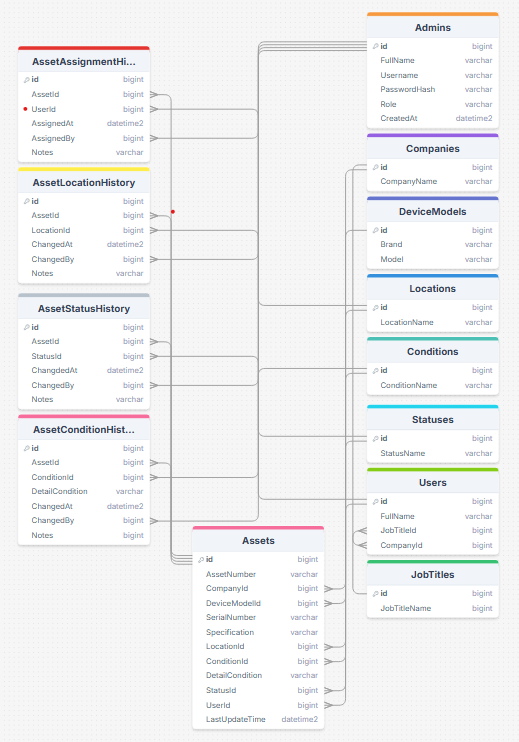
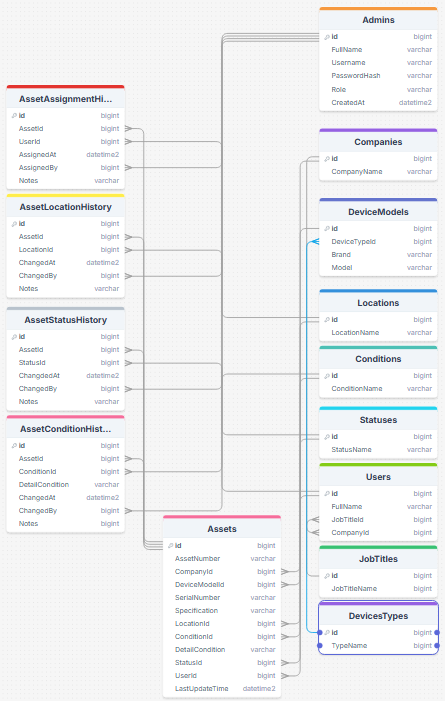
feat: Add all models that required on ERD. Base, Main Entities, and Histories Entities.

diff --git a/Models/Entities/Asset.cs b/Models/Entities/Asset.cs
@@ -1,0 +1,39 @@
+using AssetInventory.Models.Base;
+
+namespace AssetInventory.Models.Entities
+{
+    public class Asset : BaseEntity
+    {
+        public string AssetNumber { get; set; } = default!;
+
+        public long CompanyId { get; set; }
+
+        public Company Company { get; set; } = default!;
+
+        public long DeviceModelId { get; set; }
+
+        public DeviceModel DeviceModel {get; set; } = default!;
+
+        public string SerialNumber { get; set; }
+
+        public string Specification { get; set; }
+
+        public long LocationId { get; set; }
+
+        public Location Location { get; set; }
+
+        public long ConditionId { get; set; }
+
+        public Condition Condition { get; set; }
+
+        public string? DetailCondition { get; set; }
+
+        public long StatusId { get; set; }
+
+        public Status Status { get; set; }
+
+        public long? UserId { get; set; }
+
+        public User User { get; set; }
+    }
+}

diff --git a/obj/Debug/net9.0/AssetInventory.AssemblyInfo.cs b/obj/Debug/net9.0/AssetInventory.AssemblyInfo.cs
@@ -14,7 +14,7 @@ using System.Reflection;
 [assembly: System.Reflection.AssemblyCompanyAttribute("AssetInventory")]
 [assembly: System.Reflection.AssemblyConfigurationAttribute("Debug")]
 [assembly: System.Reflection.AssemblyFileVersionAttribute("1.0.0.0")]
-[assembly: System.Reflection.AssemblyInformationalVersionAttribute("1.0.0+e426068a80f1c136485c727796b6dc4446529315")]
+[assembly: System.Reflection.AssemblyInformationalVersionAttribute("1.0.0+adefe9bead0f5b680ea4f70217354c3eccc8dcaf")]
 [assembly: System.Reflection.AssemblyProductAttribute("AssetInventory")]
 [assembly: System.Reflection.AssemblyTitleAttribute("AssetInventory")]
 [assembly: System.Reflection.AssemblyVersionAttribute("1.0.0.0")]

diff --git a/Models/Base/BaseHistoryEntity.cs b/Models/Base/BaseHistoryEntity.cs
@@ -1,0 +1,21 @@
+using AssetInventory.Models.Entities;
+
+namespace AssetInventory.Models.Base
+{
+    public abstract class BaseHistoryEntity
+    {
+        public long Id { get; set; }
+
+        public long AssetId { get; set; }
+
+        public Asset Asset { get; set; }
+
+        public DateTime ChangedAt { get; set; } = DateTime.UtcNow;
+
+        public long? AdminId { get; set; } //ChangedBy < diubah oleh?
+
+        public Admin Admin { get; set; }
+
+        public string? Notes { get; set; }
+    }
+}

diff --git a/Models/Entities/User.cs b/Models/Entities/User.cs
@@ -1,0 +1,17 @@
+using AssetInventory.Models.Base;
+
+namespace AssetInventory.Models.Entities
+{
+    public class User : BaseEntity
+    {
+        public string FullName { get; set; }
+
+        public long JobTitleId { get; set; }
+
+        public JobTitle JobTitle { get; set; }
+
+        public long CompanyId { get; set; }
+
+        public Company Company { get; set; }
+    }
+}

diff --git a/Models/Histories/AssetConditionHistory.cs b/Models/Histories/AssetConditionHistory.cs
@@ -1,0 +1,14 @@
+using AssetInventory.Models.Base;
+using AssetInventory.Models.Entities;
+
+namespace AssetInventory.Models.Histories
+{
+    public class AssetConditionHistory : BaseHistoryEntity
+    {
+        public long ConditionId { get; set; }
+
+        public Condition Condition { get; set; }
+
+        public string DetailCondition { get; set; }
+    }
+}

diff --git a/Models/Entities/DeviceModel.cs b/Models/Entities/DeviceModel.cs
@@ -1,0 +1,15 @@
+using AssetInventory.Models.Base;
+
+namespace AssetInventory.Models.Entities
+{
+    public class DeviceModel : BaseEntity
+    {
+        public long DeviceTypeId { get; set; }
+
+        public DeviceType DeviceType { get; set; }
+
+        public string Brand { get; set; }
+
+        public string Model { get; set; }
+    }
+}

diff --git a/Models/Entities/Admin.cs b/Models/Entities/Admin.cs
@@ -1,0 +1,15 @@
+using AssetInventory.Models.Base;
+
+namespace AssetInventory.Models.Entities
+{
+    public class Admin : BaseEntity
+    {
+        public string FullName { get; set; }
+
+        public string Username { get; set; }
+
+        public string PasswordHash { get; set; }
+
+        public string Role { get; set; }
+    }
+}

diff --git a/Models/Histories/AssetLocationHistory.cs b/Models/Histories/AssetLocationHistory.cs
@@ -1,0 +1,13 @@
+using AssetInventory.Models.Base;
+using AssetInventory.Models.Entities;
+
+namespace AssetInventory.Models.Histories
+{
+    public class AssetLocationHistory : BaseHistoryEntity
+    {
+
+        public long LocationId { get; set; }
+
+        public Location Location { get; set; }
+    }
+}

diff --git a/Models/Histories/AssetAssignmentHistory.cs b/Models/Histories/AssetAssignmentHistory.cs
@@ -1,0 +1,14 @@
+using AssetInventory.Models.Base;
+using AssetInventory.Models.Entities;
+
+namespace AssetInventory.Models.Histories
+{
+    public class AssetAssignmentHistory : BaseHistoryEntity
+    {
+
+        public long UserId { get; set; }
+
+        public User User { get; set; }
+
+    }
+}

diff --git a/Models/Histories/AssetStatusHistory.cs b/Models/Histories/AssetStatusHistory.cs
@@ -1,0 +1,12 @@
+using AssetInventory.Models.Base;
+using AssetInventory.Models.Entities;
+
+namespace AssetInventory.Models.Histories
+{
+    public class AssetStatusHistory : BaseHistoryEntity
+    {
+        public long StatusId { get; set; }
+
+        public Status Status { get; set; }
+    }
+}

diff --git a/Models/Base/BaseEntity.cs b/Models/Base/BaseEntity.cs
@@ -1,8 +1,8 @@
-namespace AssetInventory.Models
+namespace AssetInventory.Models.Base
 {
     public abstract class BaseEntity
     {
-        public long Id { get; set; }
+        public long Id { get; set; } = default!;
 
         public DateTime CreatedAt { get; set; } = DateTime.UtcNow;
 

diff --git a/Models/Entities/Condition.cs b/Models/Entities/Condition.cs
@@ -1,0 +1,9 @@
+using AssetInventory.Models.Base;
+
+namespace AssetInventory.Models.Entities
+{
+    public class Condition : BaseEntity
+    {
+        public string ConditionName { get; set; }
+    }
+}
